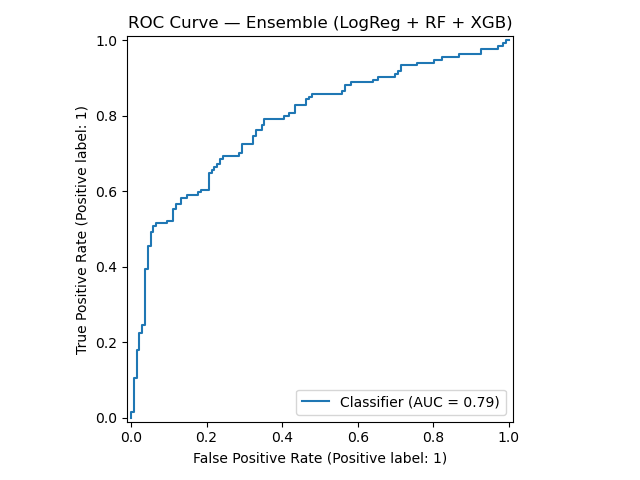
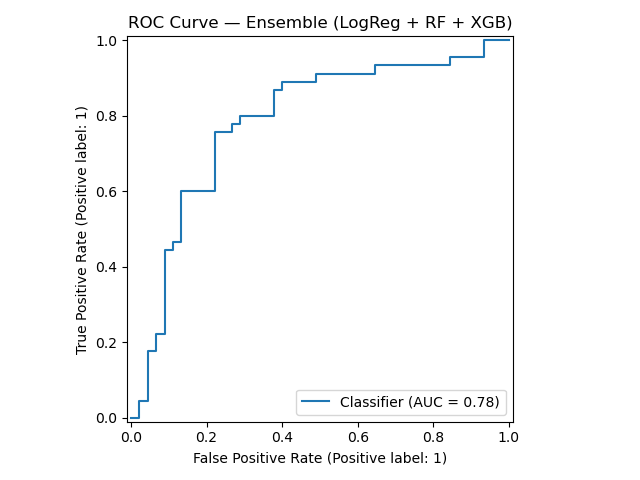
ensemble updates

diff --git a/notebooks/ensemble_toby.py b/notebooks/ensemble_toby.py
@@ -13,6 +13,7 @@ from sklearn.metrics import (
 )
 import xgboost as xgb
 from sklearn.model_selection import GridSearchCV
+from sklearn.svm import SVC
 
 
 # === Load and flatten all frames ===
@@ -45,7 +46,7 @@ print("Combined shape:", X_combined.shape)
 
 # === Split into train/test ===
 X_train, X_test, y_train, y_test = train_test_split(
-    X_combined, y, test_size=0.3, stratify=y, random_state=42
+    X_combined, y, test_size=0.1, stratify=y, random_state=42
 )
 
 # === PCA for heart data only ===
@@ -78,26 +79,21 @@ print("Scaled demographic data independently of PCA features.")
 
 # === Define base models ===
 log_reg = LogisticRegression(max_iter=50000, solver='lbfgs', tol=1e-3)
-rf = RandomForestClassifier(
-    n_estimators=300, max_depth=8, random_state=42, class_weight='balanced'
-)
-xgb_model = xgb.XGBClassifier(
-    n_estimators=300, max_depth=6, learning_rate=0.05, subsample=0.8,
-    colsample_bytree=0.8, eval_metric="auc", tree_method="hist", random_state=42
-)
+rf = RandomForestClassifier()
+xgb_model = xgb.XGBClassifier()
 
 
 print("\n=== Tuning Base Models with Grid Search and Cross-Validation ===")
 
 # Logistic Regression grid
-log_reg_params = {'C': [0.1, 1.0, 10.0], 'penalty': ['l2'], 'solver': ['lbfgs']}
+log_reg_params = {'C': [0.01, 0.1, 0.5, 1.0, 10.0], 'penalty': ['l2'], 'solver': ['lbfgs']}
 log_search = GridSearchCV(log_reg, log_reg_params, cv=5, scoring='roc_auc', n_jobs=-1)
 log_search.fit(X_train_final, y_train)
 log_reg = log_search.best_estimator_
 print("Best Logistic Regression params:", log_search.best_params_)
 
 # Random Forest grid
-rf_params = {'n_estimators': [200, 300, 400], 'max_depth': [6, 8, 10], 'min_samples_split': [2, 4]}
+rf_params = {'n_estimators': [200, 300, 400, 600], 'max_depth': [4, 6, 8, 10], 'min_samples_split': [2, 4, 6]}
 rf_search = GridSearchCV(rf, rf_params, cv=5, scoring='roc_auc', n_jobs=-1)
 rf_search.fit(X_train_final, y_train)
 rf = rf_search.best_estimator_
@@ -105,10 +101,10 @@ print("Best Random Forest params:", rf_search.best_params_)
 
 # XGBoost grid
 xgb_params = {
-    'n_estimators': [200, 300, 400],
-    'max_depth': [4, 6, 8],
-    'learning_rate': [0.03, 0.05, 0.1],
-    'subsample': [0.8, 1.0],
+    'n_estimators': [10, 20, 50, 100, 200],
+    'max_depth': [4, 6, 8, 10, 12],
+    'learning_rate': [0.001, 0.01, 0.03, 0.05, 0.1],
+    'subsample': [0.6, 0.8, 1.0],
     'colsample_bytree': [0.8, 1.0]
 }
 xgb_search = GridSearchCV(xgb_model, xgb_params, cv=5, scoring='roc_auc', n_jobs=-1, verbose=2)

diff --git a/notebooks/encoder_toby.py b/notebooks/encoder_toby.py
@@ -96,9 +96,10 @@ print(demo_df.head())
 
 
 # Extract demographic numeric features
-demo_features = ['age', 'BMI', 'height', 'weight', 'diastolic_BP', 'systolic_BP']
+demo_df['sex'] = demo_df['sex'].astype(int)
+demo_features = ['age', 'BMI', 'height', 'weight', 'diastolic_BP', 'systolic_BP', 'sex']
+demo_df['height'] = demo_df['height']/100
 X_demo = demo_df[demo_features].values
-X_demo['height'] = X_demo['Height']/100
 #scaler = StandardScaler()
 #X_demo = scaler.fit_transform(X_demo)
 
